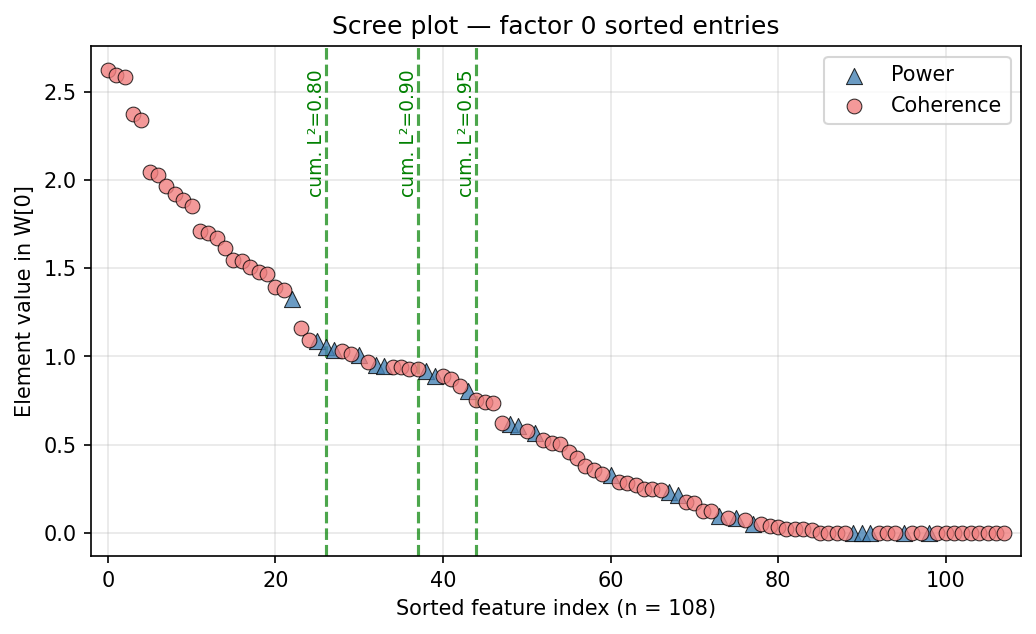
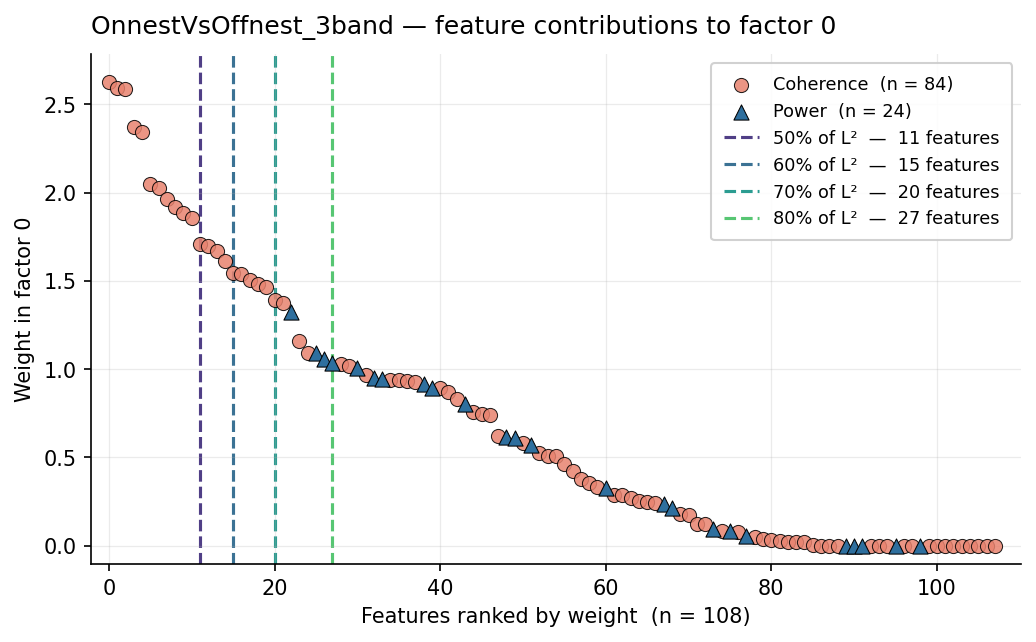
viz: rework the scree plot and use 50/60/70/80 % cutoffs
- thresholds now default to (0.5, 0.6, 0.7, 0.8) instead of (0.8, 0.9, 0.95)
- the feature count for each cutoff moves into the legend, so the numbers can
  never collide when two cutoffs fall at neighbouring ranks (they did at
  n=108, e.g. 50 % at rank 7 and 60 % at rank 11)
- marker size / edge width / alpha now scale with the number of features, so
  the 1944-point 1-Hz plots no longer smear into a solid black band and the
  power-vs-coherence distinction stays readable
- cutoff lines get distinct viridis colours instead of rotated text labels
- new `title=` parameter, and the axis labels state n

tutorial: §8 passes the new thresholds and a title naming the model.

diff --git a/src/electome/viz.py b/src/electome/viz.py
@@ -1455,21 +1455,23 @@ def create_group_visualizations(filtered_df, selected_mice, order):
 # Vignette / general-purpose plot helpers
 # =============================================================================
 
-def plot_scree_W_nmf(W, k=0, thresholds=(0.8, 0.9, 0.95), n_power_rows=8,
-                     ax=None):
+def plot_scree_W_nmf(W, k=0, thresholds=(0.5, 0.6, 0.7, 0.8), n_power_rows=8,
+                     ax=None, title=None):
     """Sorted element-value "scree" plot for factor ``k`` of ``W``.
 
-    Each entry of ``W[k, :]`` is drawn as a marker at its rank position (after
-    sorting the entries by descending value). Marker shape distinguishes
-    power features (``^``, the first ``n_power_rows * num_freqs`` entries when
-    W is reshaped to (36, num_freqs)) from coherence features (``o``).
-    Vertical dashed lines mark the rank index at which the cumulative
-    squared-L2 of the sorted-by-value entries crosses each threshold in
-    ``thresholds``.
+    Each entry of ``W[k, :]`` is drawn as a marker at its rank position, after
+    sorting the entries by descending value. Marker shape and colour separate
+    power features (``^``, the first ``n_power_rows`` of the 36 channel rows
+    when ``W`` is reshaped to (36, n_freq)) from coherence features (``o``).
 
-    This is the "scree" view used in the paper: it shows the raw distribution
-    of feature contributions, so the reader can see the elbow directly,
-    rather than the integrated CDF.
+    Vertical guides mark the rank at which the cumulative squared-L2 of the
+    sorted entries first reaches each threshold, and each guide is labelled
+    the legend gives the count for each -- how many features it takes to reach
+    that cutoff, which is usually what the figure is being read for.
+
+    Marker size, edge width and transparency are scaled to the number of
+    features, so the 108-feature guided-band factors and the 1944-feature
+    1-Hz factors both stay readable in the same call.
 
     Parameters
     ----------
@@ -1477,14 +1479,17 @@ def plot_scree_W_nmf(W, k=0, thresholds=(0.8, 0.9, 0.95), n_power_rows=8,
         Decoder weight matrix from ``model.get_W_nmf()``, shape
         (n_factors, n_features).
     k : int
-        Which factor to inspect (default 0).
+        Which factor to inspect (default 0, the supervised one).
     thresholds : iterable[float]
-        Cumulative squared-L2 thresholds to mark with vertical guides.
-        Defaults to ``(0.8, 0.9, 0.95)`` to match the paper figures.
+        Cumulative squared-L2 cutoffs to mark, as fractions. Defaults to
+        ``(0.5, 0.6, 0.7, 0.8)``.
     n_power_rows : int
         How many of the 36 (region + region_pair) rows are power features
         (default 8 -- 8 regions). The rest are coherence (28 region pairs).
     ax : matplotlib.axes.Axes, optional
+    title : str, optional
+        Replaces the default title; pass the EF name so a saved figure says
+        which model it came from.
 
     Returns
     -------
@@ -1496,70 +1501,88 @@ def plot_scree_W_nmf(W, k=0, thresholds=(0.8, 0.9, 0.95), n_power_rows=8,
     row = np.asarray(W[k, :], dtype=float)
     n_features = len(row)
 
-    # Reshape to (36, num_freqs) to recover (row, col) = (region/pair, freq)
+    # Reshape to (36, n_freq) to recover (row, col) = (region/pair, freq)
     # indices for each entry, so we can mark "power" vs "coherence".
     total_rows = n_power_rows + 28
     num_freqs = n_features // total_rows
     assert n_features == total_rows * num_freqs, (
-        f"W[{k}] length {n_features} not divisible by 36"
+        f"W[{k}] length {n_features} not divisible by {total_rows}"
     )
 
-    # Sort by descending value
     sorted_idx = np.argsort(row)[::-1]
     sorted_values = row[sorted_idx]
-    # Recover original (row_index, col_index) for each sorted entry
-    orig_row, orig_col = np.unravel_index(sorted_idx, (total_rows, num_freqs))
+    orig_row, _ = np.unravel_index(sorted_idx, (total_rows, num_freqs))
 
-    # Cumulative-squared-L2 thresholds
-    squared = row ** 2
-    sorted_sq = squared[sorted_idx]
-    cum = np.cumsum(sorted_sq)
-    total_sq = cum[-1] if cum[-1] > 0 else 1.0
-    cum_frac = cum / total_sq
-    thr_indices = []
+    # Rank at which the cumulative squared-L2 first reaches each threshold.
+    sorted_sq = (row ** 2)[sorted_idx]
+    cum_frac = np.cumsum(sorted_sq) / (sorted_sq.sum() or 1.0)
+    thresholds = list(thresholds)
+    thr_counts = []
     for t in thresholds:
-        idx_arr = np.where(cum_frac >= t)[0]
-        thr_indices.append(int(idx_arr[0]) if len(idx_arr) else n_features - 1)
+        hit = np.where(cum_frac >= t)[0]
+        thr_counts.append(int(hit[0]) + 1 if len(hit) else n_features)
 
     if ax is None:
         fig, ax = plt.subplots(figsize=(9, 5.5))
     else:
         fig = ax.figure
 
-    # Scale to a "10^exp" multiplier embedded in the y-label so ticks read
-    # e.g. "1.0 / 2.0" instead of "0.01 / 0.02".
+    # Put the y axis in units of 10^exp so ticks read "1.0, 2.0" rather than
+    # "0.01, 0.02"; the exponent goes in the axis label.
     ymax_abs = float(np.max(np.abs(sorted_values))) if n_features else 0.0
     exponent = int(np.floor(np.log10(ymax_abs))) if ymax_abs > 0 else 0
-    scale = 10.0 ** (-exponent)
-    sorted_values_scaled = sorted_values * scale
+    values = sorted_values * (10.0 ** (-exponent))
 
-    # Plot power features (triangles) and coherence features (circles) on top
+    # A marker that reads well at n=108 is a solid smear at n=1944.
+    if n_features <= 200:
+        msize, edge, alpha = 46, 0.5, 0.85
+    elif n_features <= 800:
+        msize, edge, alpha = 14, 0.0, 0.65
+    else:
+        msize, edge, alpha = 5, 0.0, 0.45
+
     is_power = orig_row < n_power_rows
     x = np.arange(n_features)
-    ax.scatter(x[is_power], sorted_values_scaled[is_power], marker='^', s=60,
-               color='steelblue', edgecolors='black', linewidths=0.5,
-               alpha=0.8, label='Power', zorder=3)
-    ax.scatter(x[~is_power], sorted_values_scaled[~is_power], marker='o', s=50,
-               color='lightcoral', edgecolors='black', linewidths=0.5,
-               alpha=0.8, label='Coherence', zorder=3)
+    ax.scatter(x[~is_power], values[~is_power], marker='o', s=msize,
+               color='#E8836F', edgecolors='black', linewidths=edge,
+               alpha=alpha, label=f'Coherence  (n = {int((~is_power).sum())})',
+               zorder=2)
+    ax.scatter(x[is_power], values[is_power], marker='^', s=msize * 1.15,
+               color='#2E6F9E', edgecolors='black', linewidths=edge,
+               alpha=min(1.0, alpha + 0.15),
+               label=f'Power  (n = {int(is_power.sum())})', zorder=3)
 
-    # Threshold vertical lines
-    ymax = sorted_values_scaled.max() if sorted_values_scaled.max() > 0 else 1.0
-    for t, idx in zip(thresholds, thr_indices):
-        ax.axvline(idx, color='green', linestyle='--', linewidth=1.5, alpha=0.7)
-        ax.text(idx, ymax, f'cum. L²={t:.2f}', rotation=90,
-                va='top', ha='right', color='green', fontsize=9)
+    # Cutoff guides. Labels sit above the axes, horizontal, so they never
+    # cover the data and do not collide with each other however many there are.
+    ax.set_xlim(-n_features * 0.02, n_features * 1.02)
+    ymin, ymax = 0.0, float(values.max()) if n_features else 1.0
+    ax.set_ylim(ymin - 0.04 * ymax, ymax * 1.06)
+    colours = plt.cm.viridis(np.linspace(0.15, 0.72, max(len(thresholds), 1)))
+    # The cutoffs can land only a few ranks apart (11, 15, 20, 27 out of 108 is
+    # typical for the guided-band factors), so the counts go in the legend
+    # rather than next to the lines, where they would overprint each other.
+    for (t, cnt), colour in zip(zip(thresholds, thr_counts), colours):
+        ax.axvline(cnt, color=colour, linestyle='--', linewidth=1.5,
+                   alpha=0.95, zorder=1,
+                   label=f'{t:.0%} of L²  —  {cnt} features')
 
-    ax.set_xlabel(f'Sorted feature index (n = {n_features})')
-    if exponent == 0:
-        ax.set_ylabel(f'Element value in W[{k}]')
-    else:
-        ax.set_ylabel(rf'Element value in W[{k}] (×$10^{{{exponent}}}$)')
-    ax.set_title(f'Scree plot — factor {k} sorted entries')
-    ax.set_xlim(-2, n_features + 1)
-    ax.grid(alpha=0.3)
-    ax.legend(loc='upper right')
+    ax.set_xlabel(f'Features ranked by weight  (n = {n_features})')
+    ylab = f'Weight in factor {k}'
+    if exponent != 0:
+        ylab += rf'  ($\times 10^{{{exponent}}}$)'
+    ax.set_ylabel(ylab)
+    ax.set_title(title or f'Feature contributions to factor {k}',
+                 pad=10, loc='left')
+    ax.grid(alpha=0.25, linewidth=0.6)
+    ax.spines[['top', 'right']].set_visible(False)
+    # markerscale: at n=1944 the plotted dots are 5 pt, which is invisible in
+    # a legend key, so the key is drawn larger than the data.
+    leg = ax.legend(loc='upper right', fontsize=8.5, framealpha=0.9,
+                    edgecolor='0.8', borderpad=0.7, labelspacing=0.5,
+                    markerscale=max(1.0, 46.0 / msize) ** 0.5)
+    leg.set_zorder(5)
     return fig
+
 
 
 def plot_dual_filter(model, train_dict, *,
